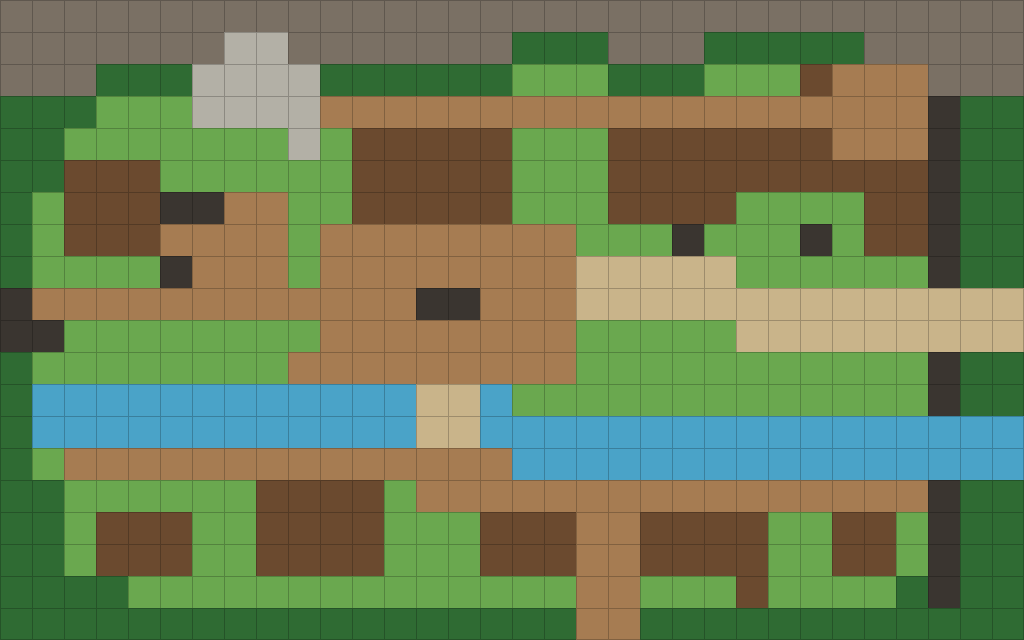
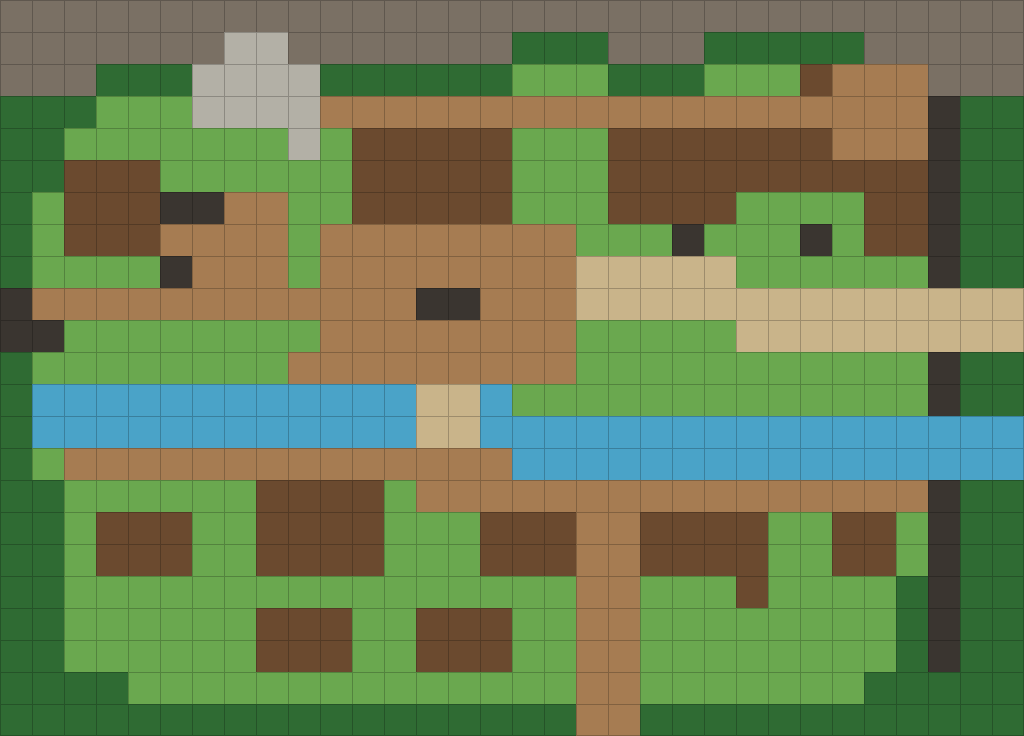
Move Amri and Senn to a back row behind Ba Dan's quarry houses
The board grows three rows south (32 x 20 to 32 x 23): row 18 becomes a
back lane, Amri's and Senn's new houses stand on rows 19-20 in Leto's
row-house art, and the river path runs on to its mouth at (18..19, 22).
The blue-door and bent-shutter houses stay where they were as the two
households SQ-03 leaves unnamed: a plain doorstep each, no home anchor,
no name in the label.

home.amri moves to (9,18) and home.senn to (14,18) with their aprons,
free doorsteps, the pot and the log pile; the senn_door track is now his
door along the back lane to the river path. The riverside exit, its
arrival and sign, and the coast road sign with Saltstep's arrival move to
the new south rim. The east wall runs on to row 20. Tests that pinned the
old mouth, sign and board size follow, the map painting pack is
regenerated, and ADR 0106 notes the bench now measures 32 x 23 against
its 32 x 20 calibration.

Claude-Session: https://claude.ai/code/session_01H8JDTPYztrZvUL5HBCK6eR

diff --git a/src/content/scenes/baDan.setpieces.ts b/src/content/scenes/baDan.setpieces.ts
@@ -160,7 +160,7 @@ const PIECES: readonly PlannedSetPiece[] = [
       mem('gate-wall-south-a', 'low wall', 29, 11, 1, 2, 0.6, true, 'prop'),
       // the canal passes under the wall line here
       flat('gate-culvert', 'culvert grate over the canal', 29, 13, 1, 2),
-      mem('gate-wall-south-b', 'low wall', 29, 15, 1, 4, 0.6, true, 'prop'),
+      mem('gate-wall-south-b', 'low wall', 29, 15, 1, 6, 0.6, true, 'prop'),
       small('gate-stool', "the watch's stool", 28.3, 8.3, 0.4, 0.5),
       mem('lamp-post', 'gate lamp on the wall', 29, 11, 1, 1, 1.8, true, 'fades', {
         lantern: true,
@@ -287,29 +287,53 @@ const PIECES: readonly PlannedSetPiece[] = [
       mem('leto-bench', 'bench', 3.05, 15.3, 0.8, 0.4, 0.6, false, 'prop'),
     ],
   },
+  // The two households on Gao's ledger (SQ-03) are left unnamed on purpose (owner, 2026-11-19): the houses and their
+  // art stay, each with a plain doorstep, and no `home.*` anchor. Their member ids are older than that decision.
+  {
+    id: 'quarry_blue_door',
+    purpose:
+      "A house past the canal with a blue door: a household on Gao's ledger, unnamed on purpose (SQ-03)",
+    anchor: 'amri-house',
+    members: [
+      building('amri-house', 'house with the blue door', 15, 16, 3, 2, 1.35),
+      flat('blue-door-step', 'doorstep', 16, 15),
+    ],
+  },
+  {
+    id: 'quarry_bent_shutter',
+    purpose:
+      "A house past the canal with a bent shutter: a household on Gao's ledger, unnamed on purpose (SQ-03)",
+    anchor: 'senn-house',
+    members: [
+      building('senn-house', 'house with the bent shutter', 20, 16, 4, 2, 1.5),
+      building('senn-annex', 'house with the bent shutter, the L', 23, 18, 1, 1, 1.35),
+      flat('bent-shutter-step', 'doorstep', 24, 17),
+    ],
+  },
+  // The back row (owner, 2026-11-19): Amri's and Senn's houses on rows 19-20, in Leto's plain row-house art, their
+  // doors on the back lane (row 18).
   {
     id: 'quarry_amri',
     purpose:
-      "Amri's house with the blue door in the quarry row: a pot against the wall and a free doorstep for the boots.",
-    anchor: 'amri-house',
+      "Amri's house in the back row past the canal: a pot against the wall and a free doorstep for the boots.",
+    anchor: 'amri-row-house',
     members: [
-      building('amri-house', "Amri's house", 15, 16, 3, 2, 1.35),
-      flat('amri-doorstep', 'doorstep', 16, 15),
-      flat('amri-free-step', 'free doorstep', 17, 15),
-      small('amri-pot', 'pot', 14.3, 16.3, 0.5, 0.4),
+      building('amri-row-house', "Amri's house", 8, 19, 3, 2, 1.35),
+      flat('amri-doorstep', 'doorstep', 9, 18),
+      flat('amri-free-step', 'free doorstep', 10, 18),
+      small('amri-pot', 'pot', 7.3, 19.3, 0.5, 0.4),
     ],
   },
   {
     id: 'quarry_senn',
     purpose:
-      "Senn's L-shaped house with the bent shutter in the quarry row: a log pile against the end wall and a free doorstep for the boots.",
-    anchor: 'senn-house',
+      "Senn's house at the end of the back row: a log pile against the end wall and a free doorstep for the boots.",
+    anchor: 'senn-row-house',
     members: [
-      building('senn-house', "Senn's house", 20, 16, 4, 2, 1.5),
-      building('senn-annex', "Senn's house, the L", 23, 18, 1, 1, 1.35),
-      flat('senn-doorstep', 'doorstep', 24, 17),
-      flat('senn-free-step', 'free doorstep', 24, 16),
-      small('senn-logs', 'log pile', 24.1, 18.2, 0.7, 0.65),
+      building('senn-row-house', "Senn's house", 13, 19, 3, 2, 1.35),
+      flat('senn-doorstep', 'doorstep', 14, 18),
+      flat('senn-free-step', 'free doorstep', 15, 18),
+      small('senn-logs', 'log pile', 16.1, 19.2, 0.7, 0.65),
     ],
   },
   {
@@ -341,7 +365,7 @@ export const BA_DAN_SET_PIECE_PLAN: SetPiecePlan = {
     { id: 'square', rect: { x0: 9, y0: 6, x1: 18, y1: 11 } },
     { id: 'west', rect: { x0: 1, y0: 4, x1: 8, y1: 11 } },
     { id: 'north_west', rect: { x0: 5, y0: 1, x1: 10, y1: 4 } },
-    { id: 'past_canal', rect: { x0: 1, y0: 14, x1: 29, y1: 19 } },
+    { id: 'past_canal', rect: { x0: 1, y0: 14, x1: 29, y1: 22 } },
     { id: 'north_east', rect: { x0: 23, y0: 1, x1: 28, y1: 5 } },
   ],
   quiet: QUIET,

diff --git a/src/content/scenes/baDan.ground.ts b/src/content/scenes/baDan.ground.ts
@@ -149,6 +149,7 @@ export const BA_DAN_TRACKS: readonly GroundTrack[] = [
       [18.9, 15.5],
       [18.9, 18],
       [19, 20],
+      [19, 23],
     ],
     width: 1.4,
     wear: 2,
@@ -174,11 +175,15 @@ export const BA_DAN_TRACKS: readonly GroundTrack[] = [
     width: 1,
     wear: 1,
   },
+  // from the bridge down across the back lane, between Amri's and Senn's houses, to the coast-road sign on the rim
   {
     id: 'coast_sign',
     line: [
       [13.5, 15],
-      [13.5, 18.6],
+      [13.5, 18.2],
+      [12.3, 18.8],
+      [12, 19.5],
+      [12, 21.6],
     ],
     width: 1,
     wear: 1,
@@ -194,13 +199,34 @@ export const BA_DAN_TRACKS: readonly GroundTrack[] = [
     width: 1.2,
     wear: 2,
   },
-  // the quarry house past the gardens' corner: its door's stub down to the lane
+  // the house with the bent shutter, past the gardens' corner: its door's stub down to the lane
   {
-    id: 'senn_door',
+    id: 'bent_shutter_door',
     line: [
       [24.5, 17.5],
       [24.6, 16.5],
       [24.4, 15.6],
+    ],
+    width: 1,
+    wear: 1,
+  },
+  // the back lane (row 18): Senn's door east to the river path (his recovery spot is at the riverside)
+  {
+    id: 'senn_door',
+    line: [
+      [14.5, 18.5],
+      [16.5, 18.55],
+      [18.4, 18.5],
+    ],
+    width: 1,
+    wear: 1,
+  },
+  // the back lane west: Amri's door to the coast path, and up it over the bridge to the square
+  {
+    id: 'back_lane',
+    line: [
+      [9.5, 18.5],
+      [12.1, 18.5],
     ],
     width: 1,
     wear: 1,
@@ -241,10 +267,13 @@ export const BA_DAN_APRONS: readonly GroundApron[] = [
   door('school_door', 'bd05.school', 6, 15),
   door('dorin_door', 'home.dorin', 26, 7, 0.5),
   door('hanru_door', 'home.hanru', 26, 15),
-  door('amri_door', 'home.amri', 16, 15),
+  door('amri_door', 'home.amri', 9, 18),
+  // the two households on Gao's ledger, unnamed on purpose (SQ-03): a plain doorstep each, no `home.*` anchor
+  door('blue_door', 'quarry_blue_door', 16, 15),
+  door('bent_shutter_door', 'quarry_bent_shutter', 24, 17),
   door('leto_door', 'home.leto', 4, 15),
   door('hesra_door', 'home.hesra', 5, 7),
-  door('senn_door', 'home.senn', 24, 17),
+  door('senn_door', 'home.senn', 14, 18),
 ];
 
 /** Where the walkable ground is, for the growth along the rim's tree line. */
@@ -436,8 +465,8 @@ export const BA_DAN_GROUND_SPEC: GroundSpec = {
       { x: 31, y: 10 },
     ]),
     groundMouth('river-path', 'south', [
-      { x: 18, y: 19 },
-      { x: 19, y: 19 },
+      { x: 18, y: 22 },
+      { x: 19, y: 22 },
     ]),
   ],
   mouthReach: 3,

diff --git a/src/content/maps/village.ts b/src/content/maps/village.ts
@@ -26,7 +26,7 @@ export const BA_DAN_VILLAGE: MapDef = {
   name: 'Ba Dan Village',
   kind: 'explore',
   width: 32,
-  height: 20,
+  height: 23,
   ambience: 'village',
   // The courtyard's open air, with a pond tone that swells near the canal's water.
   soundscape: 'courtyard',
@@ -57,8 +57,9 @@ export const BA_DAN_VILLAGE: MapDef = {
    * stands at the crossing of the routes: the east road comes in through the gate gap in the east wall (x 29,
    * rows 9-10) past Gao's shop (x 19-22, rows 4-6, storeroom 23-24) to the square, where Mira's table is the
    * two `l` cells (13..14, 9), seated from the rest spot below it at (13,10). The canal runs along rows 12-13
-   * west of x 16 and rows 13-14 east of it, with the bridge at (13..14, 12..13), and leaves the board east under the wall. Past it lie the quarry houses
-   * and the river path (mouth at (18..19, 19)). The terrace `^` under the north cliff is reached by the steps
+   * west of x 16 and rows 13-14 east of it, with the bridge at (13..14, 12..13), and leaves the board east under the wall. Past it lie the quarry houses,
+   * a back lane on row 18 with a back row of two houses on rows 19-20 facing it (owner, 2026-11-19), and the river
+   * path running down between them to its mouth at (18..19, 22). The terrace `^` under the north cliff is reached by the steps
    * `S` at (9,4); the mason's yard (blocks at (5,6), (6,6), (5,8)) lies west of the square; the garden fence
    * `F` has its side gate gap at (25,3). The west road ends at the ford, `W` at (0,9), flooded this season;
    * a future west region opens there behind a `Condition`. Every blocked cell comes from the brief's plan.
@@ -82,7 +83,10 @@ export const BA_DAN_VILLAGE: MapDef = {
     'TT,,,,,,BBBB,................#TT',
     'TT,BBB,,BBBB,,,BBB..BBBB,,BB,#TT',
     'TT,BBB,,BBBB,,,BBB..BBBB,,BB,#TT',
-    'TTTT,,,,,,,,,,,,,,..,,,B,,,,T#TT',
+    'TT,,,,,,,,,,,,,,,,..,,,B,,,,T#TT',
+    'TT,,,,,,BBB,,BBB,,..,,,,,,,,T#TT',
+    'TT,,,,,,BBB,,BBB,,..,,,,,,,,T#TT',
+    'TTTT,,,,,,,,,,,,,,..,,,,,,,TTTTT',
     'TTTTTTTTTTTTTTTTTT..TTTTTTTTTTTT',
   ],
   partySpawns: [{ x: 11, y: 10 }],
@@ -95,7 +99,8 @@ export const BA_DAN_VILLAGE: MapDef = {
     {
       id: 'riverside_sign',
       name: 'Riverside path',
-      pos: { x: 20, y: 18 },
+      // Beside the river path one cell short of its mouth on the south rim.
+      pos: { x: 20, y: 21 },
       // A marker post, not Pella's figure: she is a resident placed elsewhere.
       sprite: 'world.route_sign',
       interaction: 'route-sign',

diff --git a/src/content/maps/world.ts b/src/content/maps/world.ts
@@ -86,14 +86,14 @@ export function connectAct1(map: MapDef): MapDef {
             mouth(31, [9, 10]),
           ),
           route(
-            { x: 18, y: 19 },
+            { x: 18, y: 22 },
             'ba_dan_riverside',
             { x: 10, y: 19 },
             'River path → Riverside',
             'south',
             // The path's mouth on the south rim, between the trees on both shoulders: the walkable
             // border cells are the exit.
-            [18, 19].map((x) => ({ x, y: 19 })),
+            [18, 19].map((x) => ({ x, y: 22 })),
           ),
         ],
         /*
@@ -110,7 +110,8 @@ export function connectAct1(map: MapDef): MapDef {
           {
             id: 'coast_road_sign',
             name: 'Coast road',
-            pos: { x: 13, y: 18 },
+            // On the south rim at the foot of the coast path, between Amri's and Senn's houses in the back row.
+            pos: { x: 12, y: 21 },
             sprite: 'world.route_sign',
             interaction: 'route-sign',
             when: ACT1_OVER,
@@ -169,7 +170,7 @@ export function connectAct1(map: MapDef): MapDef {
             { x: 10, y: 20 },
             'ba_dan_village',
             // One step inside the village's river-path mouth, never on it.
-            { x: 18, y: 18 },
+            { x: 18, y: 21 },
             'South path → Ba Dan Village',
             'south',
             // The south path from row 20 to the rim: it leaves with no tile to miss.

diff --git a/src/content/residents/returnees.ts b/src/content/residents/returnees.ts
@@ -144,7 +144,8 @@ const door = (id: string, place: string, x: number, y: number): WorldAnchor => (
 /**
  * The road group sits on the open north verge at the west bend, beyond the x=4
  * departure trigger and clear of Lanfen. BD12-BD15 are the lane doors past the canal,
- * except Hesra's, which is the mason's yard (`return.ts`).
+ * except Hesra's, which is the mason's yard (`return.ts`). Amri's and Senn's doors open onto the back lane
+ * (row 18), from the back row of the quarry houses (owner, 2026-11-19).
  */
 export const RETURNEE_ANCHORS: readonly WorldAnchor[] = [
   tile('return.bo_shan', 'FOREST-RETURN', FOREST, 5, 3),
@@ -163,10 +164,10 @@ export const RETURNEE_ANCHORS: readonly WorldAnchor[] = [
   tile('recovery.senn', 'BD15-RIVER', RIVERSIDE, 18, 14),
   // Bo-shan shares the BD04 household door while keeping his own saved identity.
   door('home.bo_shan', 'BD04', 9, 14),
-  door('home.amri', 'BD12', 16, 15),
+  door('home.amri', 'BD12', 9, 18),
   door('home.leto', 'BD13', 4, 15),
   door('home.hesra', 'BD14', 5, 7),
-  door('home.senn', 'BD15', 24, 17),
+  door('home.senn', 'BD15', 14, 18),
 ];
 
 const profile = (residentId: ReturneeId, ...profiles: ResidentProfile[]): Condition => ({

diff --git a/scripts/perf/core-bench.test.ts b/scripts/perf/core-bench.test.ts
@@ -122,9 +122,10 @@ describe('core benchmark coverage and frozen calibration', () => {
         .filter((map) => map.width * map.height === maximum)
         .sort((a, b) => a.id.localeCompare(b.id)),
     );
-    // Ba Dan's 32 x 20 board is the largest registered on its own (ADR 0120); its cases carry their own calibration
+    // Ba Dan's board (32 x 23 since the back row, 2026-11-19) is the largest registered on its own (ADR 0120); its
+    // cases carry their own calibration, made on the 32 x 20 board
     expect(suite.coverage.topDown.largestMaps).toEqual([
-      { id: 'ba_dan_village', width: 32, height: 20 },
+      { id: 'ba_dan_village', width: 32, height: 23 },
     ]);
     expect(suite.coverage.topDown.benchmarkedMap).toBe('ba_dan_village');
     const supplemental = createTopDownBenchSuite();
@@ -141,7 +142,7 @@ describe('core benchmark coverage and frozen calibration', () => {
     for (const entry of supplemental.cases) {
       expect(entry.detail).toMatchObject({
         width: 32,
-        height: 20,
+        height: 23,
         reachableBudget: 6,
         props: 0,
         footprintSize: 1,

diff --git a/src/app/world/journal.test.ts b/src/app/world/journal.test.ts
@@ -173,9 +173,9 @@ describe('travel journal and riverside routes', () => {
     const initial = start();
     let state = apply(CONTENT, initial, { type: 'setFlags', flags: { riverside_pet: true } }).state;
     state = apply(CONTENT, state, { type: 'walkTo', pos: { x: 10, y: 20 } }).state;
-    expect(state.location).toEqual({ mapId: 'ba_dan_village', pos: { x: 18, y: 18 } });
+    expect(state.location).toEqual({ mapId: 'ba_dan_village', pos: { x: 18, y: 21 } });
     expect(state.story.nodeId).toBeNull();
-    state = apply(CONTENT, state, { type: 'walkTo', pos: { x: 18, y: 19 } }).state;
+    state = apply(CONTENT, state, { type: 'walkTo', pos: { x: 18, y: 22 } }).state;
     expect(state.location).toEqual({ mapId: 'ba_dan_riverside', pos: { x: 10, y: 19 } });
     expect(state.party).toEqual(initial.party);
     const saved = deserialize(

diff --git a/src/core/state/pin.test.ts b/src/core/state/pin.test.ts
@@ -100,8 +100,8 @@ suite('the conversation pin', () => {
   it('pins nobody when an unbound NpcDef opens a conversation', () => {
     // The riverside path sign is a plain NpcDef: its tap opens a dialogue,
     // but there is no resident to hold in place.
-    const state = { ...besideMira(), location: { mapId: 'ba_dan_village', pos: { x: 19, y: 18 } } };
-    const result = apply(CONTENT, state, { type: 'walkTo', pos: { x: 20, y: 18 } });
+    const state = { ...besideMira(), location: { mapId: 'ba_dan_village', pos: { x: 19, y: 21 } } };
+    const result = apply(CONTENT, state, { type: 'walkTo', pos: { x: 20, y: 21 } });
     expect(result.state.screen).toBe('dialogue');
     expect(result.state.story.nodeId).toBe('riverside_invitation');
     expect(result.state.world.talk).toBeNull();

diff --git a/src/app/world/guidance.test.ts b/src/app/world/guidance.test.ts
@@ -24,14 +24,14 @@ describe('nearby exploration guidance', () => {
     const map = CONTENT.maps.get('ba_dan_village');
     if (!map) throw new Error('Missing Ba Dan village');
 
-    const atPortal = nearbyExploreTarget(CONTENT, map, villageAt({ x: 18, y: 19 }));
+    const atPortal = nearbyExploreTarget(CONTENT, map, villageAt({ x: 18, y: 22 }));
     expect(atPortal).toMatchObject({
       kind: 'exit',
       destination: 'Riverside',
       exit: { toMapId: 'ba_dan_riverside' },
     });
 
-    const bySign = nearbyExploreTarget(CONTENT, map, villageAt({ x: 21, y: 18 }));
+    const bySign = nearbyExploreTarget(CONTENT, map, villageAt({ x: 21, y: 21 }));
     expect(bySign).toMatchObject({ kind: 'npc', npc: { id: 'riverside_sign' } });
   });
 

diff --git a/src/content/scenes/baDan.layout.ts b/src/content/scenes/baDan.layout.ts
@@ -117,9 +117,11 @@ const ART: Readonly<Record<string, { sprite: string; flip?: boolean }>> = {
   'leto-house': { sprite: 'quarry_row' },
   'leto-bench': { sprite: 'bench_small' },
   'amri-house': { sprite: 'quarry_amri' },
-  'amri-pot': { sprite: 'pots' },
   'senn-house': { sprite: 'quarry_long' },
   'senn-annex': { sprite: 'senn_annex' },
+  'amri-row-house': { sprite: 'quarry_row' },
+  'amri-pot': { sprite: 'pots' },
+  'senn-row-house': { sprite: 'quarry_row' },
   'senn-logs': { sprite: 'firewood' },
   'hanru-house': { sprite: 'hanru_house' },
   'hanru-rack': { sprite: 'drying_rack' },

diff --git a/e2e/world.spec.ts b/e2e/world.spec.ts
@@ -92,7 +92,7 @@ test('rescued riverside return keeps the shrine discovery and party health', asy
       battle: null,
       flags: { ...app.state.flags, act1_complete: true },
       story: { ...app.state.story, nodeId: 'village_explore', lineIndex: 0 },
-      location: { mapId: 'ba_dan_village', pos: { x: 18, y: 19 } },
+      location: { mapId: 'ba_dan_village', pos: { x: 18, y: 22 } },
     };
     app.resync();
     return party.map((unit) => ({ id: unit.id, hp: unit.hp }));

diff --git a/src/content/regions/saltstepEmberwatch/maps.ts b/src/content/regions/saltstepEmberwatch/maps.ts
@@ -135,8 +135,8 @@ export const SALTSTEP_MARKET: MapDef = {
     {
       pos: { x: 0, y: 5 },
       toMapId: 'ba_dan_village',
-      // Beside the coast-road sign on Ba Dan's south lawn.
-      toPos: { x: 13, y: 17 },
+      // Beside the coast-road sign on Ba Dan's south lawn, the cell north of it.
+      toPos: { x: 12, y: 20 },
       label: 'Coast road → Ba Dan Village',
       direction: 'west',
       area: mouth(0, [5, 6]),
